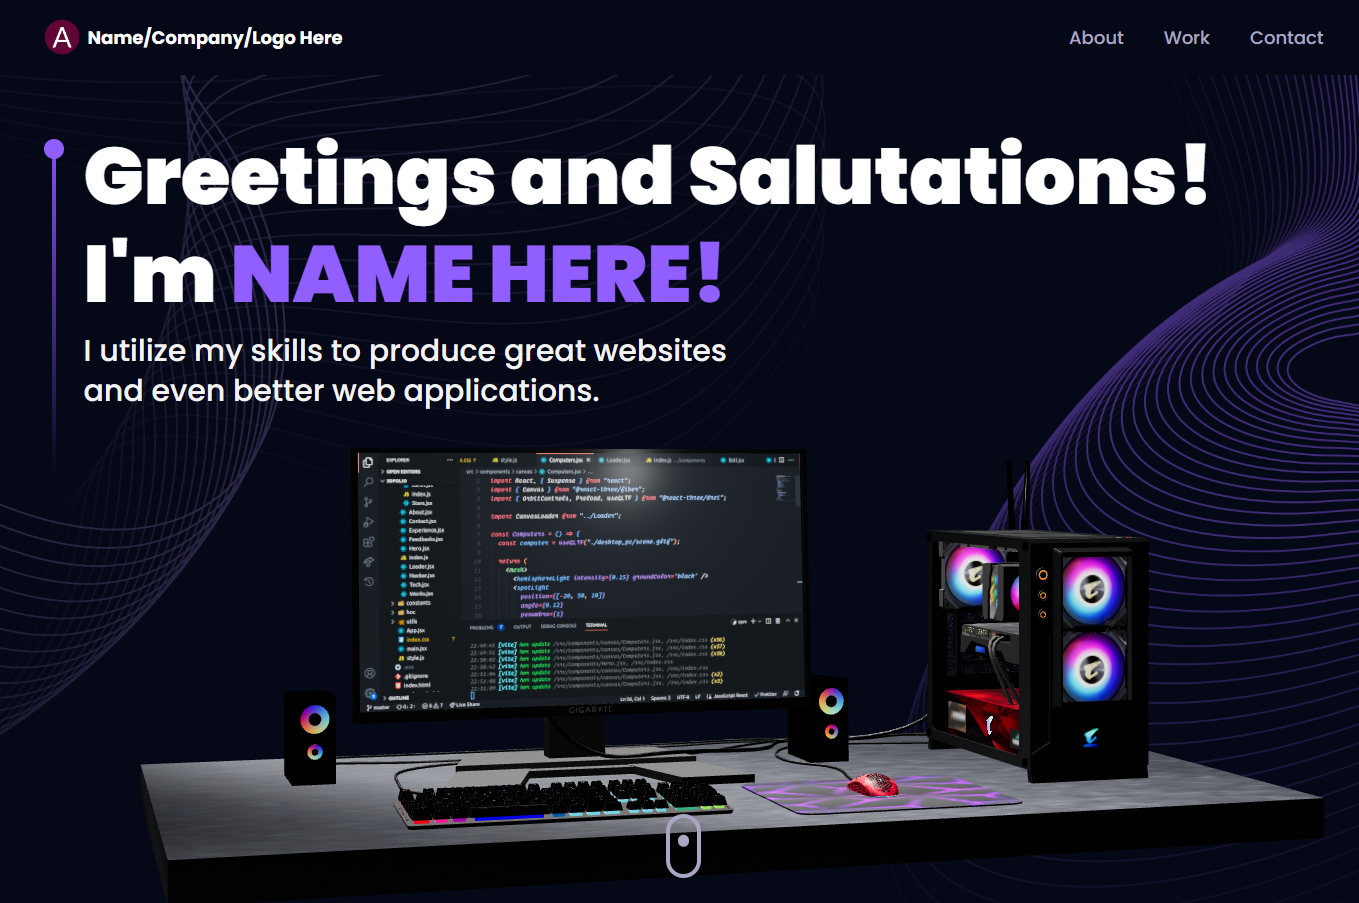
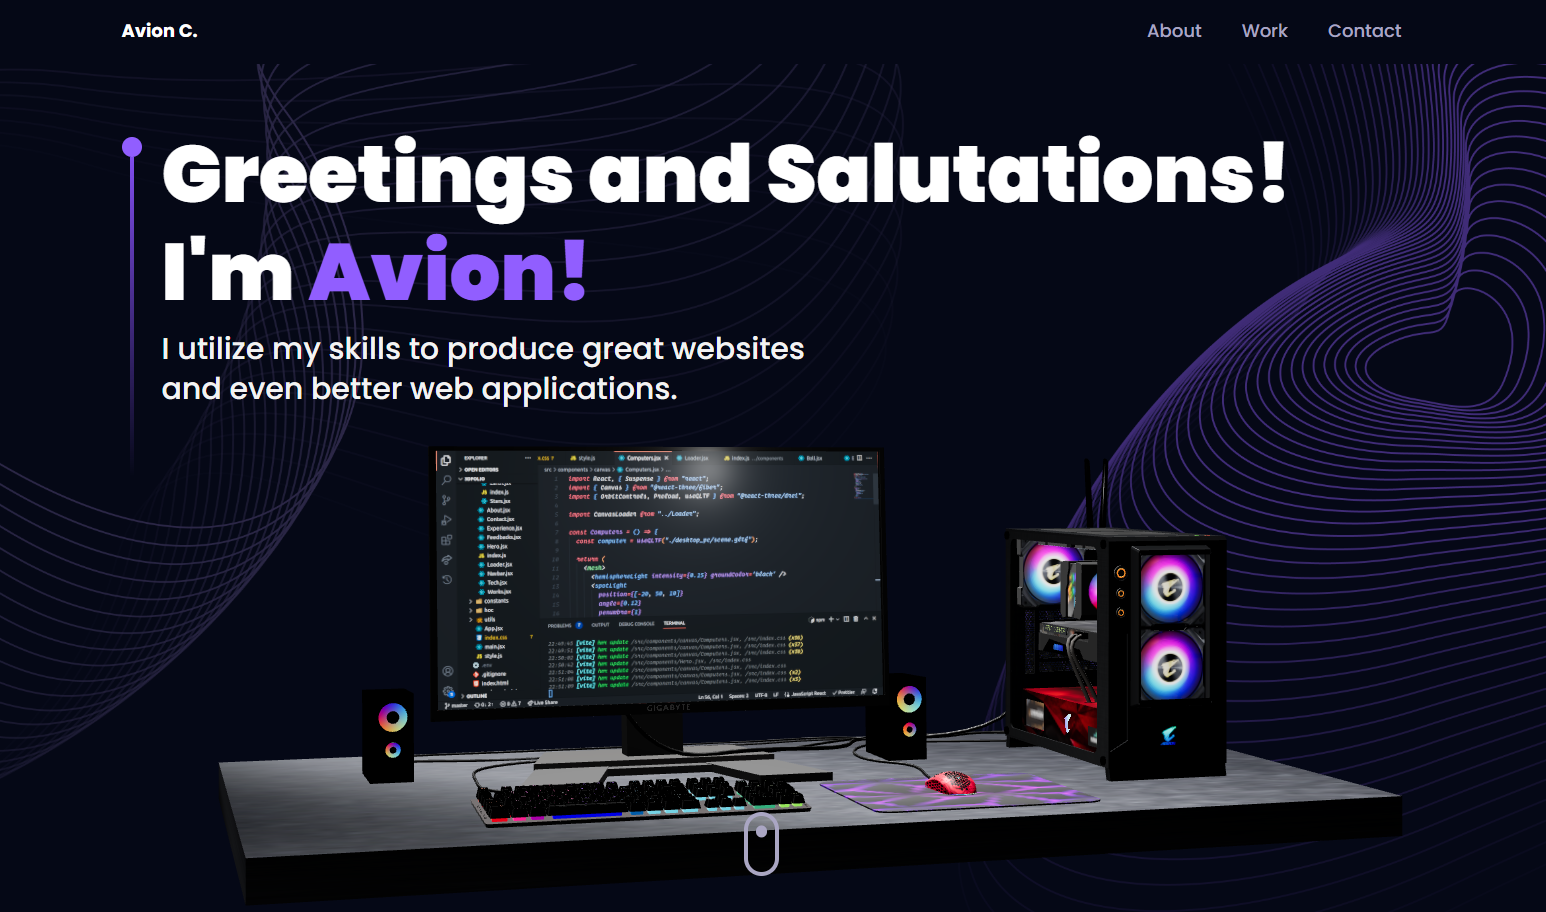
changes to wording in index and hero components

Changed region(s): [[0.0, 0.0, 1.0, 0.9922], [0.7417, 0.9302, 0.8344, 0.9612]]

diff --git a/src/components/Works.jsx b/src/components/Works.jsx
@@ -3,19 +3,19 @@ import { motion } from 'framer-motion';
 
 import { styles } from '../styles'
 import { github } from "../assets";
-import { SectionWrapper} from "../hoc";
+import { SectionWrapper } from "../hoc";
 import { projects } from "../constants";
 import { fadeIn, textVariant } from "../utils/motion";
 
-const ProjectCard = ({ index, name, description, tags, image, source_code_link}) => {
+const ProjectCard = ({ index, name, description, tags, image, source_code_link }) => {
   return (
     <motion.div variants={fadeIn("up", "spring", index * 0.5, 0.75)}>
-      <Tilt options={{max: 45, scale:1, speed:450}} className="bg-tertiary p-5 rounded-2xl sm:w-[360px] w-full">
+      <Tilt options={{ max: 45, scale: 1, speed: 450 }} className="bg-tertiary p-5 rounded-2xl sm:w-[360px] w-full">
         <div className="relative w-full h-[230px]">
-          <img src={image} alt={name} className="w-full h-full object-cover rounded-2xl"/>
+          <img src={image} alt={name} className="w-full h-full object-cover rounded-2xl" />
           <div className="absolute inset-0 flex justify-end m-3 card-img_hover">
-            <div onClick={() => window.open (source_code_link, "_blank")} className="black-gradient w-10 h-10 rounded-full flex justify-center items-center cursor-pointer">
-            <img src={github} alt="github" className="w-1/2 h-1/2 object-contain" />
+            <div onClick={() => window.open(source_code_link, "_blank")} className="black-gradient w-10 h-10 rounded-full flex justify-center items-center cursor-pointer">
+              <img src={github} alt="github" className="w-1/2 h-1/2 object-contain" />
             </div>
           </div>
         </div>
@@ -30,7 +30,7 @@ const ProjectCard = ({ index, name, description, tags, image, source_code_link})
             <p key={tag.name} className={`text-[14px] ${tag.color}`}>
               #{tag.name}
             </p>
-          ) )}
+          ))}
         </div>
 
       </Tilt>
@@ -41,25 +41,25 @@ const ProjectCard = ({ index, name, description, tags, image, source_code_link})
 const Works = () => {
   return (
     <>
-    <motion.div variants={textVariant()}>
-      <p className={styles.sectionSubText}>My Projects</p>
-      <h2 className={styles.sectionHeadText}>Projects.</h2>
-    </motion.div>
+      <motion.div variants={textVariant()}>
+        <p className={styles.sectionSubText}>My Projects</p>
+        <h2 className={styles.sectionHeadText}>Projects.</h2>
+      </motion.div>
 
-    <div className="w-full flex">
-      <motion.p variants={fadeIn("", "", 0.1, 1)} className="mt-3 text-secondary text-[17px] max-w-3xl leading-[30px]">
-        The following projects showcase my skills and experience through real-world examples of my work. Each project is briefly describe with links to code repositories and live demos. It reflects my ability to solve complex problems, work with different technologies, and manage projects effectively.
-      </motion.p>
-    </div>
+      <div className="w-full flex">
+        <motion.p variants={fadeIn("", "", 0.1, 1)} className="mt-3 text-secondary text-[17px] max-w-3xl leading-[30px]">
+          The following projects showcase my skills and experience through real-world examples of my work. Each project is briefly describe with links to code repositories. It reflects my ability to solve complex problems, work with different technologies, and manage projects effectively.
+        </motion.p>
+      </div>
 
-    <div className="mt-20 flex flex-wrap gap-7">
-    {projects.map((project, index) => (
-      <ProjectCard key={`project-${index}`}
-      index={index} 
-      {...project}
-      />
-    ))}
-    </div>
+      <div className="mt-20 flex flex-wrap gap-7">
+        {projects.map((project, index) => (
+          <ProjectCard key={`project-${index}`}
+            index={index}
+            {...project}
+          />
+        ))}
+      </div>
     </>
   )
 }

diff --git a/src/components/About.jsx b/src/components/About.jsx
@@ -7,28 +7,28 @@ import { services } from "../constants";
 import { fadeIn, textVariant } from "../utils/motion";
 import { SectionWrapper } from "../hoc";
 
-const ServiceCard = ({title, icon, index}) => {
+const ServiceCard = ({ title, icon, index }) => {
   return (
     <Tilt className='xs:w-[250px] w-full'>
-    <motion.div
-      variants={fadeIn("right", "spring", .05 * index, 0.75)}
-      className='w-full green-pink-gradient p-[1px] rounded-[20px] shadow-card'
-    >
-      <div
-      options={{
-        max: 45,
-        scale: 1,
-        speed: 450,
-      }}
-      className="bg-tertiary rounded-[20px] py-5 px-12 min-h-[280px] flex justify-evenly items-center flex-col">
+      <motion.div
+        variants={fadeIn("right", "spring", .05 * index, 0.75)}
+        className='w-full green-pink-gradient p-[1px] rounded-[20px] shadow-card'
+      >
+        <div
+          options={{
+            max: 45,
+            scale: 1,
+            speed: 450,
+          }}
+          className="bg-tertiary rounded-[20px] py-5 px-12 min-h-[280px] flex justify-evenly items-center flex-col">
 
-        <img src={icon} alt={title} className="w-16 h-16 object-contain" />
-        <h3 className="text-white text-[20px] font-bold text-center">
-          {title}
-        </h3>
+          <img src={icon} alt={title} className="w-16 h-16 object-contain" />
+          <h3 className="text-white text-[20px] font-bold text-center">
+            {title}
+          </h3>
 
-      </div>
-    </motion.div>
+        </div>
+      </motion.div>
     </Tilt>
   )
 }
@@ -36,20 +36,20 @@ const ServiceCard = ({title, icon, index}) => {
 const About = () => {
   return (
     <>
-    <motion.div variants={textVariant()}>
-      <p className={styles.sectionSubText}>Introduction</p>
-      <h2 className={styles.sectionHeadText}>Overview.</h2>
-    </motion.div>
-    <motion.p variants={fadeIn("", "", 0.1, 1)}
-    className="mt-4 text-secondary text-[17px] max-w-3xl leading-[30px]">
-    Innovative full-stack software engineer with experience in HTML/CSS and JavaScript. Knowledgeable of Oracle, MySQL, Python, Node.js, React, and Three.js. A quick learner that collaborates closely with other developers to create efficient, scalable, and user-friendly solutions that solve real-world problems. See below on how to contact me!
-    </motion.p>
-    <div className="mt-20 flex flex-wrap gap-10">
-      { services.map((service, index) => (
-        <ServiceCard key={service.title} index={index} {...service} />
-      )) }
+      <motion.div variants={textVariant()}>
+        <p className={styles.sectionSubText}>Introduction</p>
+        <h2 className={styles.sectionHeadText}>Overview.</h2>
+      </motion.div>
+      <motion.p variants={fadeIn("", "", 0.1, 1)}
+        className="mt-4 text-secondary text-[17px] max-w-3xl leading-[30px]">
+        A curious, innovative full-stack software engineer that utilizes several skills such as HTML, CSS, JavaScript, and MongoDB to get the job done. Knowledgeable of Oracle, MySQL, Python, Node.js, React, and Three.js. A quick learner that collaborates closely with other developers to create efficient, scalable, and user-friendly solutions that solve real-world problems. See below on how to contact me!
+      </motion.p>
+      <div className="mt-20 flex flex-wrap gap-10">
+        {services.map((service, index) => (
+          <ServiceCard key={service.title} index={index} {...service} />
+        ))}
 
-    </div>
+      </div>
     </>
   )
 }

diff --git a/src/components/Experience.jsx b/src/components/Experience.jsx
@@ -8,25 +8,25 @@ import { SectionWrapper } from "../hoc"
 import { textVariant } from "../utils/motion"
 
 const ExperienceCard = ({ experience }) => (
-  <VerticalTimelineElement contentStyle={{background: "#1d1836", color: "#fff"}} contentArrowStyle={{borderRight: "7px solid #232631"}} date={experience.date} iconStyle={{background: experience.iconBg}} 
-  icon={
-  <div className="flex justify-center items-center w-full h-full">
-    <img src={experience.icon} alt={experience.company_name} className="w-[60%] h-[60%] object-contain"/>
-  </div>
-}>
-  <div>
-    <h3 className="text-white text-[24px] font-bold">{experience.title}</h3>
-    <p className="text-secondary text-[16px] font-semibold" style={{margin:0}}>
-      {experience.company_name}
-    </p>
-  </div>
+  <VerticalTimelineElement contentStyle={{ background: "#1d1836", color: "#fff" }} contentArrowStyle={{ borderRight: "7px solid #232631" }} date={experience.date} iconStyle={{ background: experience.iconBg }}
+    icon={
+      <div className="flex justify-center items-center w-full h-full">
+        <img src={experience.icon} alt={experience.company_name} className="w-[60%] h-[60%] object-contain" />
+      </div>
+    }>
+    <div>
+      <h3 className="text-white text-[24px] font-bold">{experience.title}</h3>
+      <p className="text-secondary text-[16px] font-semibold" style={{ margin: 0 }}>
+        {experience.company_name}
+      </p>
+    </div>
 
-  <ul className="mt-5 list-disc ml-5 space-y-s">
-  {experience.points.map((points, index) =>
-  <li key={`experience-point-${index}`} className="text-white-100 text-[14px] pl-1 tracking-wider">
-    {points}
-  </li>)}
-  </ul>
+    <ul className="mt-5 list-disc ml-5 space-y-s">
+      {experience.points.map((points, index) =>
+        <li key={`experience-point-${index}`} className="text-white-100 text-[14px] pl-1 tracking-wider">
+          {points}
+        </li>)}
+    </ul>
 
   </VerticalTimelineElement>
 )
@@ -34,21 +34,21 @@ const ExperienceCard = ({ experience }) => (
 const Experience = () => {
   return (
     <>
-    <motion.div variants={textVariant()}>
-      <p className={styles.sectionSubText}>What I've done so far</p>
-      <h2 className={styles.sectionHeadText}>Work Experience.</h2>
-    </motion.div>
+      <motion.div variants={textVariant()}>
+        <p className={styles.sectionSubText}>What I've done so far</p>
+        <h2 className={styles.sectionHeadText}>Work Experience.</h2>
+      </motion.div>
 
-    <div className="mt-20 flex flex-col">
-      <VerticalTimeline>
-        {
-          experiences.map((experience, index) =>
-         (
-          <ExperienceCard key={index} experience={experience} />
-         ))
-        }
-      </VerticalTimeline>
-    </div>
+      <div className="mt-20 flex flex-col">
+        <VerticalTimeline>
+          {
+            experiences.map((experience, index) =>
+            (
+              <ExperienceCard key={index} experience={experience} />
+            ))
+          }
+        </VerticalTimeline>
+      </div>
     </>
   )
 }

diff --git a/src/components/Hero.jsx b/src/components/Hero.jsx
@@ -15,7 +15,7 @@ const Hero = () => {
 
         <div>
           <h1 className={`${styles.heroHeadText} text-white`}>Greetings and Salutations! I'm <span className='text-[#915eff]'>Avion!</span></h1>
-          <p className={`${styles.heroSubText} mt-2 text-white-100`}>I utilize my skills to produce great websites <br className='sm:block hidden' /> and even better web applications.</p>
+          <p className={`${styles.heroSubText} mt-2 text-white-100`}>Foodie. Curious. Software Engineer. Lover of the Cosmos.</p>
         </div>
       </div>
 
